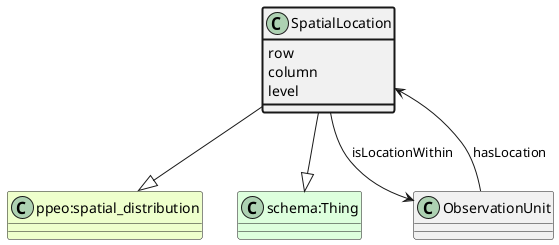
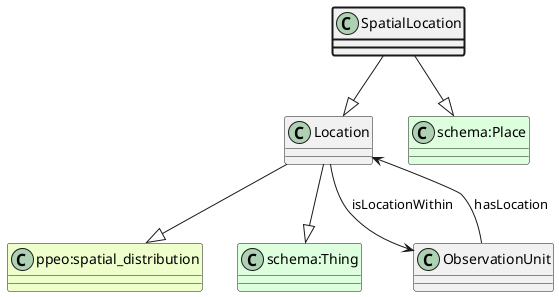
Location subclasses

diff --git a/doc/appn_BiologicalUnit.md b/doc/appn_BiologicalUnit.md
@@ -1,7 +1,7 @@
 # BiologicalUnit
 [https://schema.plantphenomics.org.au/BiologicalUnit](https://schema.plantphenomics.org.au/BiologicalUnit)
 
-A plant or set of plants sharing the same BiologicalMaterial (e.g. a plot or crop in a field) or any Sample of a plant (e.g. an individual organ or leaf clipping) or set of plants (e.g. a cut from a plot) that is treated as an ObservationUnit for collecting or reporting data. BiologicalUnits may be part of larger BiologicalUnits. For example a plant (BiologicalUnit) may be part of a cohort (BiologicalUnit) sharing the same BiologicalMaterial and Treatments. Where relevant, the position of a BiologicalUnit within a larger BiologicalUnit or within a GrowthFacility can be specified using a SpatialLocation.
+A plant or set of plants sharing the same BiologicalMaterial (e.g. a plot or crop in a field) or any Sample of a plant (e.g. an individual organ or leaf clipping) or set of plants (e.g. a cut from a plot) that is treated as an ObservationUnit for collecting or reporting data. BiologicalUnits may be part of larger BiologicalUnits. For example a plant (BiologicalUnit) may be part of a cohort (BiologicalUnit) sharing the same BiologicalMaterial and Treatments. Where relevant, the position of a BiologicalUnit within a larger BiologicalUnit or within a GrowthFacility can be specified using a Location.
 
 ![UML diagram for BiologicalUnit](/ttl_uml/ttl_appn_BiologicalUnit.png)
 
@@ -23,9 +23,9 @@ A plant or set of plants sharing the same BiologicalMaterial (e.g. a plot or cro
     * Relates an Assay to an ObservationUnit for which it is carried out. Note that when the Assay is an Observation, the model should infer a schema:observationAbout property from isForObservationUnit.
 * [appn:ObservationUnit](/doc/appn_ObservationUnit.md) **appn:inheritsContext** [appn:ObservationUnit](/doc/appn_ObservationUnit.md)
     * Indicates an ObservationUnit should be considered to inherit values for Variables from another ObservationUnit. Examples include a plant inheriting environmental variables from a pot, growth cabinet or field or a leaf inheriting environmental and developmental properties from a plant.
-* [appn:ObservationUnit](/doc/appn_ObservationUnit.md) **appn:hasLocation** [appn:SpatialLocation](/doc/appn_SpatialLocation.md)
+* [appn:ObservationUnit](/doc/appn_ObservationUnit.md) **appn:hasLocation** [appn:Location](/doc/appn_Location.md)
     * Specifies the location for an ObservationUnit.
-* [appn:SpatialLocation](/doc/appn_SpatialLocation.md) **appn:isLocationWithin** [appn:ObservationUnit](/doc/appn_ObservationUnit.md)
+* [appn:Location](/doc/appn_Location.md) **appn:isLocationWithin** [appn:ObservationUnit](/doc/appn_ObservationUnit.md)
     * Specifies that a location is a position within an ObservationUnit.
 ## Subclasses
 * [https://schema.plantphenomics.org.au/Sample](/doc/appn_Sample.md)

diff --git a/doc/appn_GrowthFacility.md b/doc/appn_GrowthFacility.md
@@ -1,7 +1,7 @@
 # GrowthFacility
 [https://schema.plantphenomics.org.au/GrowthFacility](https://schema.plantphenomics.org.au/GrowthFacility)
 
-A building, enclosed space, field unit, container or other entity in which plants are grown. GrowthFacilities may be nested inside other GrowthFacilities, e.g. rhizoboxes inside a growth chamber, to any depth. GrowthFacilities include all non-biological ObservationUnits and may be defined for each spatial context at which environmental observations are collected or management actions (Treatments) are performed for one or more BiologicalUnits. Where relevant, the position of a GrowthFacility within a larger GrowthFacility can be specified using a SpatialLocation. GrowthFacilities may be Platforms for Sensors and Actuators.
+A building, enclosed space, field unit, container or other entity in which plants are grown. GrowthFacilities may be nested inside other GrowthFacilities, e.g. rhizoboxes inside a growth chamber, to any depth. GrowthFacilities include all non-biological ObservationUnits and may be defined for each spatial context at which environmental observations are collected or management actions (Treatments) are performed for one or more BiologicalUnits. Where relevant, the position of a GrowthFacility within a larger GrowthFacility can be specified using a Location. GrowthFacilities may be Platforms for Sensors and Actuators.
 
 ![UML diagram for GrowthFacility](/ttl_uml/ttl_appn_GrowthFacility.png)
 
@@ -26,7 +26,7 @@ A building, enclosed space, field unit, container or other entity in which plant
     * Relates an Assay to an ObservationUnit for which it is carried out. Note that when the Assay is an Observation, the model should infer a schema:observationAbout property from isForObservationUnit.
 * [appn:ObservationUnit](/doc/appn_ObservationUnit.md) **appn:inheritsContext** [appn:ObservationUnit](/doc/appn_ObservationUnit.md)
     * Indicates an ObservationUnit should be considered to inherit values for Variables from another ObservationUnit. Examples include a plant inheriting environmental variables from a pot, growth cabinet or field or a leaf inheriting environmental and developmental properties from a plant.
-* [appn:ObservationUnit](/doc/appn_ObservationUnit.md) **appn:hasLocation** [appn:SpatialLocation](/doc/appn_SpatialLocation.md)
+* [appn:ObservationUnit](/doc/appn_ObservationUnit.md) **appn:hasLocation** [appn:Location](/doc/appn_Location.md)
     * Specifies the location for an ObservationUnit.
-* [appn:SpatialLocation](/doc/appn_SpatialLocation.md) **appn:isLocationWithin** [appn:ObservationUnit](/doc/appn_ObservationUnit.md)
+* [appn:Location](/doc/appn_Location.md) **appn:isLocationWithin** [appn:ObservationUnit](/doc/appn_ObservationUnit.md)
     * Specifies that a location is a position within an ObservationUnit.

diff --git a/doc/appn_Sample.md b/doc/appn_Sample.md
@@ -30,7 +30,7 @@ A BiologicalUnit that has been created from an existing BiologicalUnit through a
     * Relates an Assay to an ObservationUnit for which it is carried out. Note that when the Assay is an Observation, the model should infer a schema:observationAbout property from isForObservationUnit.
 * [appn:ObservationUnit](/doc/appn_ObservationUnit.md) **appn:inheritsContext** [appn:ObservationUnit](/doc/appn_ObservationUnit.md)
     * Indicates an ObservationUnit should be considered to inherit values for Variables from another ObservationUnit. Examples include a plant inheriting environmental variables from a pot, growth cabinet or field or a leaf inheriting environmental and developmental properties from a plant.
-* [appn:ObservationUnit](/doc/appn_ObservationUnit.md) **appn:hasLocation** [appn:SpatialLocation](/doc/appn_SpatialLocation.md)
+* [appn:ObservationUnit](/doc/appn_ObservationUnit.md) **appn:hasLocation** [appn:Location](/doc/appn_Location.md)
     * Specifies the location for an ObservationUnit.
-* [appn:SpatialLocation](/doc/appn_SpatialLocation.md) **appn:isLocationWithin** [appn:ObservationUnit](/doc/appn_ObservationUnit.md)
+* [appn:Location](/doc/appn_Location.md) **appn:isLocationWithin** [appn:ObservationUnit](/doc/appn_ObservationUnit.md)
     * Specifies that a location is a position within an ObservationUnit.

diff --git a/doc/appn_XYZLocation.md b/doc/appn_XYZLocation.md
@@ -1,16 +1,18 @@
-# SpatialLocation
-[https://schema.plantphenomics.org.au/SpatialLocation](https://schema.plantphenomics.org.au/SpatialLocation)
+# XYZLocation
+[https://schema.plantphenomics.org.au/XYZLocation](https://schema.plantphenomics.org.au/XYZLocation)
 
-A location defined with geospatial coordinates. The definition of the location should include a schema:geo property with coordinates or a shape.
+A location defined using an appropriate local spatial geometry in three dimensions.
 
-![UML diagram for SpatialLocation](/ttl_uml/ttl_appn_SpatialLocation.png)
+![UML diagram for XYZLocation](/ttl_uml/ttl_appn_XYZLocation.png)
 
 ## Superclasses
 * [https://schema.plantphenomics.org.au/Location](/doc/appn_Location.md)
 * http://purl.org/ppeo/PPEO.owl#spatial_distribution
 * https://schema.org/Thing
-* https://schema.org/Place
 ## Properties
+* XYZLocation https://schema.plantphenomics.org.au/row
+* XYZLocation https://schema.plantphenomics.org.au/column
+* XYZLocation https://schema.plantphenomics.org.au/level
 * [appn:ObservationUnit](/doc/appn_ObservationUnit.md) **appn:hasLocation** [appn:Location](/doc/appn_Location.md)
     * Specifies the location for an ObservationUnit.
 * [appn:Location](/doc/appn_Location.md) **appn:isLocationWithin** [appn:ObservationUnit](/doc/appn_ObservationUnit.md)

diff --git a/doc/appn_ObservationUnit.md b/doc/appn_ObservationUnit.md
@@ -15,9 +15,9 @@ An entity for which a Study collects data or controls the environment and other 
     * Relates an Assay to an ObservationUnit for which it is carried out. Note that when the Assay is an Observation, the model should infer a schema:observationAbout property from isForObservationUnit.
 * appn:ObservationUnit **appn:inheritsContext** [appn:ObservationUnit](/doc/appn_ObservationUnit.md)
     * Indicates an ObservationUnit should be considered to inherit values for Variables from another ObservationUnit. Examples include a plant inheriting environmental variables from a pot, growth cabinet or field or a leaf inheriting environmental and developmental properties from a plant.
-* appn:ObservationUnit **appn:hasLocation** [appn:SpatialLocation](/doc/appn_SpatialLocation.md)
+* appn:ObservationUnit **appn:hasLocation** [appn:Location](/doc/appn_Location.md)
     * Specifies the location for an ObservationUnit.
-* [appn:SpatialLocation](/doc/appn_SpatialLocation.md) **appn:isLocationWithin** appn:ObservationUnit
+* [appn:Location](/doc/appn_Location.md) **appn:isLocationWithin** appn:ObservationUnit
     * Specifies that a location is a position within an ObservationUnit.
 ## Subclasses
 * [https://schema.plantphenomics.org.au/GrowthFacility](/doc/appn_GrowthFacility.md)

diff --git a/doc/appn_Location.md b/doc/appn_Location.md
@@ -1,0 +1,18 @@
+# Location
+[https://schema.plantphenomics.org.au/Location](https://schema.plantphenomics.org.au/Location)
+
+A position associated with the placement of a GrowthFacility within another GrowthFacility or of a BiologicalUnit within another BiologicalUnit or GrowthFacility. Position may be expressed as absolute geospatial coordinates (SpatialLocation) or using a locally appropriate organisation into rows and columns and optionally levels (XYZLocation).
+
+![UML diagram for Location](/ttl_uml/ttl_appn_Location.png)
+
+## Superclasses
+* http://purl.org/ppeo/PPEO.owl#spatial_distribution
+* https://schema.org/Thing
+## Properties
+* [appn:ObservationUnit](/doc/appn_ObservationUnit.md) **appn:hasLocation** appn:Location
+    * Specifies the location for an ObservationUnit.
+* appn:Location **appn:isLocationWithin** [appn:ObservationUnit](/doc/appn_ObservationUnit.md)
+    * Specifies that a location is a position within an ObservationUnit.
+## Subclasses
+* [https://schema.plantphenomics.org.au/SpatialLocation](/doc/appn_SpatialLocation.md)
+* [https://schema.plantphenomics.org.au/XYZLocation](/doc/appn_XYZLocation.md)

diff --git a/doc/appn_schema.md b/doc/appn_schema.md
@@ -13,6 +13,7 @@
 * [appn:GrowthFacility](/doc/appn_GrowthFacility.md)
 * [appn:GrowthFacilityType](/doc/appn_GrowthFacilityType.md)
 * [appn:Investigation](/doc/appn_Investigation.md)
+* [appn:Location](/doc/appn_Location.md)
 * [appn:MaterialSource](/doc/appn_MaterialSource.md)
 * [appn:Method](/doc/appn_Method.md)
 * [appn:Observation](/doc/appn_Observation.md)
@@ -34,3 +35,4 @@
 * [appn:Treatment](/doc/appn_Treatment.md)
 * [appn:TreatmentVariable](/doc/appn_TreatmentVariable.md)
 * [appn:Variable](/doc/appn_Variable.md)
+* [appn:XYZLocation](/doc/appn_XYZLocation.md)
